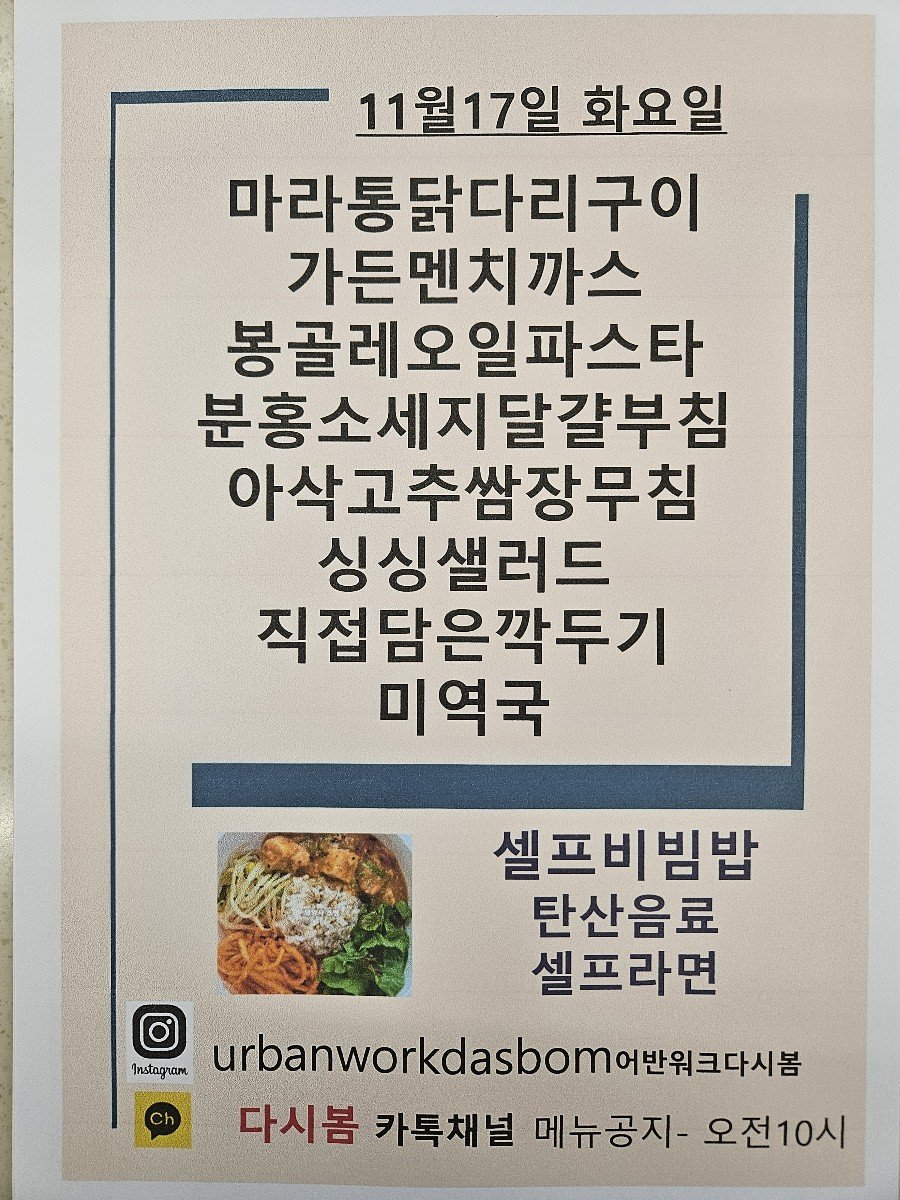
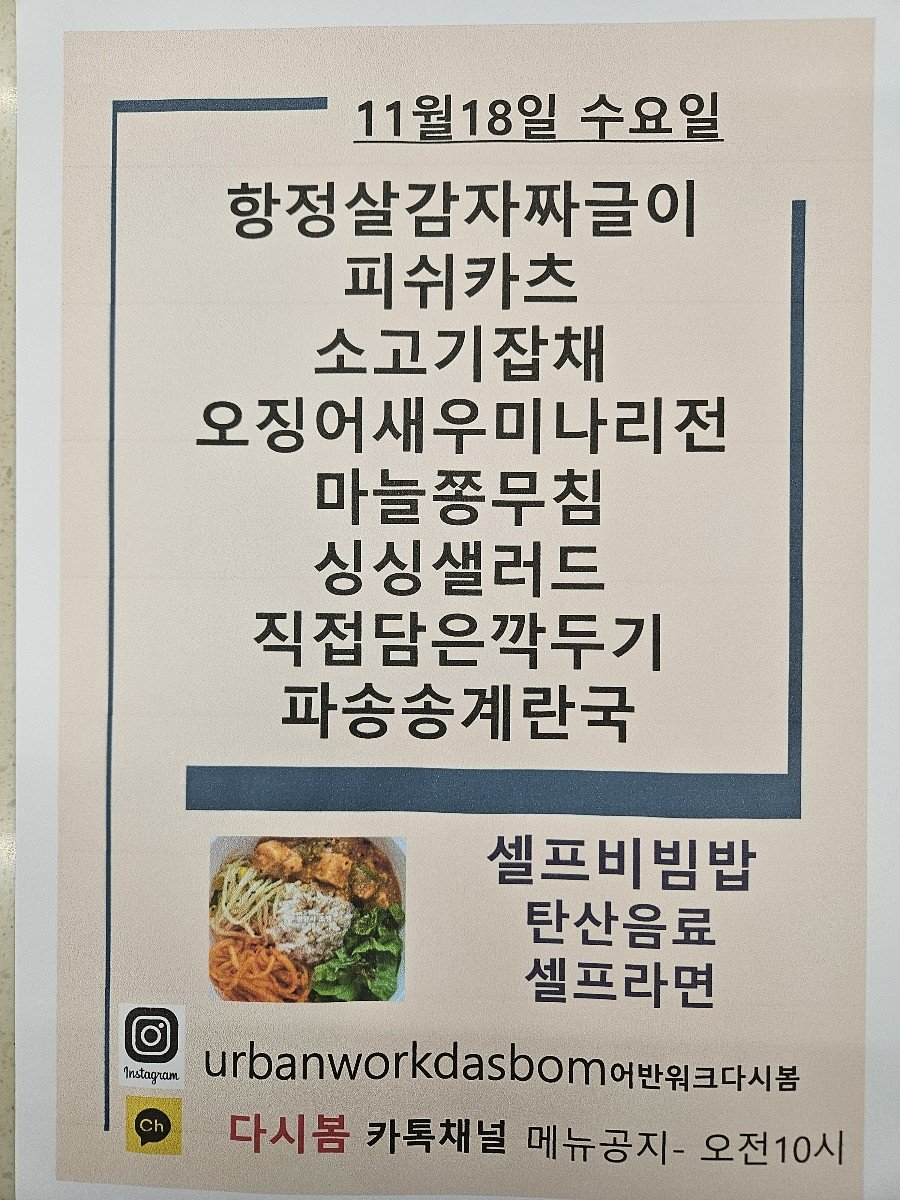
Update menu board assets

diff --git a/menu-today/index.html b/menu-today/index.html
@@ -209,7 +209,7 @@
 
     <section class="meta-bar">
       <div class="meta-card"><div class="meta-label">기준 날짜</div><div class="meta-value">2026년 11월 18일 수요일</div></div>
-      <div class="meta-card"><div class="meta-label">최종 가져온 시간</div><div class="meta-value">2026-11-18 09:48:50</div></div>
+      <div class="meta-card"><div class="meta-label">최종 가져온 시간</div><div class="meta-value">2026-11-18 10:03:57</div></div>
       <div class="meta-card"><div class="meta-label">확인 완료</div><div class="meta-value">9개 식당</div></div>
       <div class="meta-card"><div class="meta-label">준비중</div><div class="meta-value">3개 채널</div></div>
     </section>
@@ -235,7 +235,7 @@
             <div class="sub">가산 어반워크</div>
           </div>
         </div>
-        <div class="menu-inline-image"><img src="./images/dasibom.png" alt="다시 봄 식단 이미지"></div><ul><li>마라통닭다리구이</li><li>가든멘치까스</li><li>봉골레오일파스타</li><li>! 분홍소세지달갈부침</li><li>아삭고추된장무침</li><li>싱싱샐러드</li><li>미역국</li><li>마라</li><li>다리구이</li><li>분홍소세지달갈부침</li></ul>
+        <div class="menu-inline-image"><img src="./images/dasibom.png" alt="다시 봄 식단 이미지"></div><ul><li>) 항정살감자짜글이</li><li>피쉬카즈</li><li>i 소고기잡채</li><li>오징어새우미나리전</li><li>싱싱샐러드</li><li>직접담은짝두기</li><li>파송송계란국</li><li>소고기잡채</li><li>시 고전시</li></ul>
       </article>
 
       <article class="restaurant-card">
@@ -255,7 +255,7 @@
             <div class="sub">디폴리스지식산업센터</div>
           </div>
         </div>
-        <div class="menu-inline-image"><img src="./images/dipolis.png" alt="디폴리스 구내식당 식단 이미지"></div><ul><li>순살 치킨까스 &amp; 돈까스 소스</li><li>HA 토마토 스파게티</li><li>구수한 누릉지 / 크루동 크림스프</li><li>코기 손만두찜 &amp; 간장</li><li>팽이 미소 장국</li><li>숙주나물 무침</li><li>양배추 야채 샐러드</li><li>배추겉절이</li><li>= 은 료 &#x27;</li><li>돈육 김치 두루 치기</li><li>출살 치킨까스 &amp; 돈까스 소스</li><li>치즈 토마토 스파게티</li></ul>
+        <div class="menu-inline-image"><img src="./images/dipolis.png" alt="디폴리스 구내식당 식단 이미지"></div><ul><li>순살 치킨까스 &amp; 돈까스 소스</li><li>HA 토마토 스파게티</li><li>구수한 누릉지 / 크루동 크림스프</li><li>코기 손만두찜 &amp; 간장</li><li>팽이 미소 장국</li><li>숙주나물무침</li><li>양배추 야채 샐러드</li><li>배추겉절이</li><li>= 은 료 &#x27;</li><li>돈육 김치 두루 치기</li><li>출살 치킨까스 &amp; 돈까스 소스</li><li>치즈 토마토 스파게티</li></ul>
       </article>
 
       <article class="restaurant-card">

diff --git a/guro-menu/index.html b/guro-menu/index.html
@@ -32,7 +32,7 @@
   </header>
   <section class="meta">
     <div><small>기준 날짜</small><strong>2026년 11월 18일 수요일</strong></div>
-    <div><small>최종 갱신</small><strong>2026-11-18 09:49:06</strong></div>
+    <div><small>최종 갱신</small><strong>2026-11-18 10:04:13</strong></div>
     <div><small>등록 식당</small><strong>5개</strong></div>
   </section>
   <div class="notice">공개 카카오 채널의 메뉴 이미지를 자동 수집하고 OCR로 정리합니다. 텍스트에 오타가 있을 수 있으니 식단 이미지를 함께 확인해 주세요.</div>
